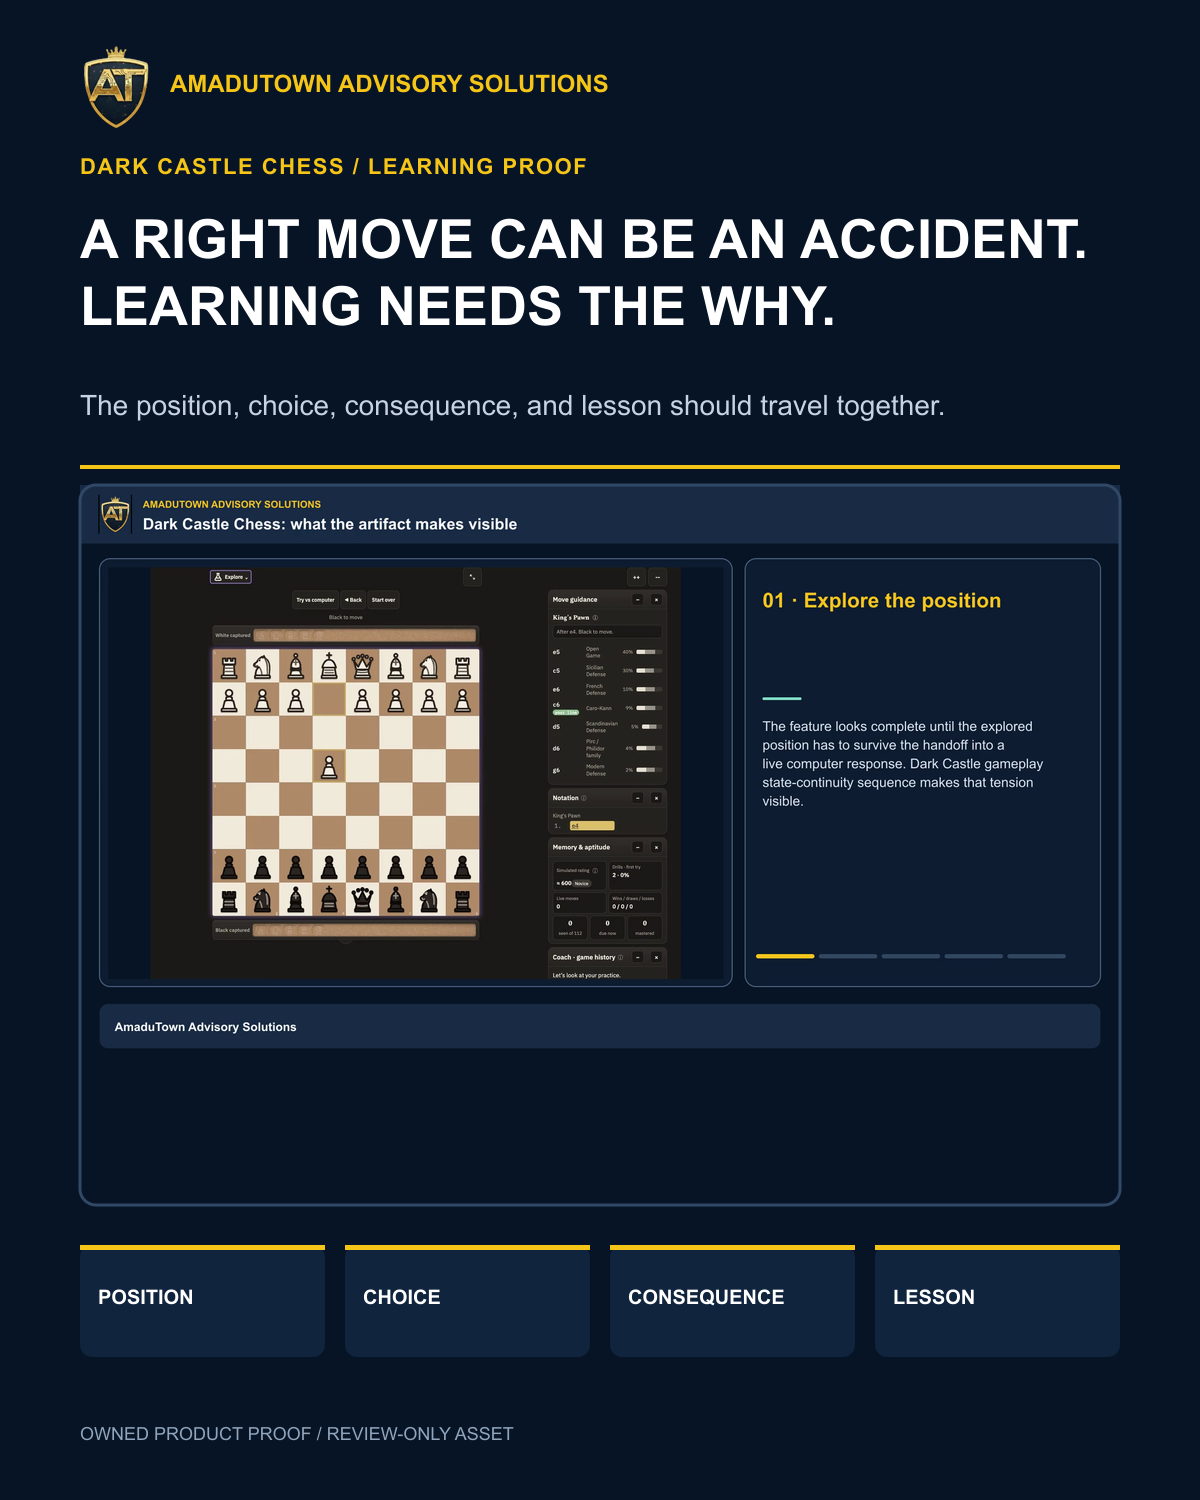
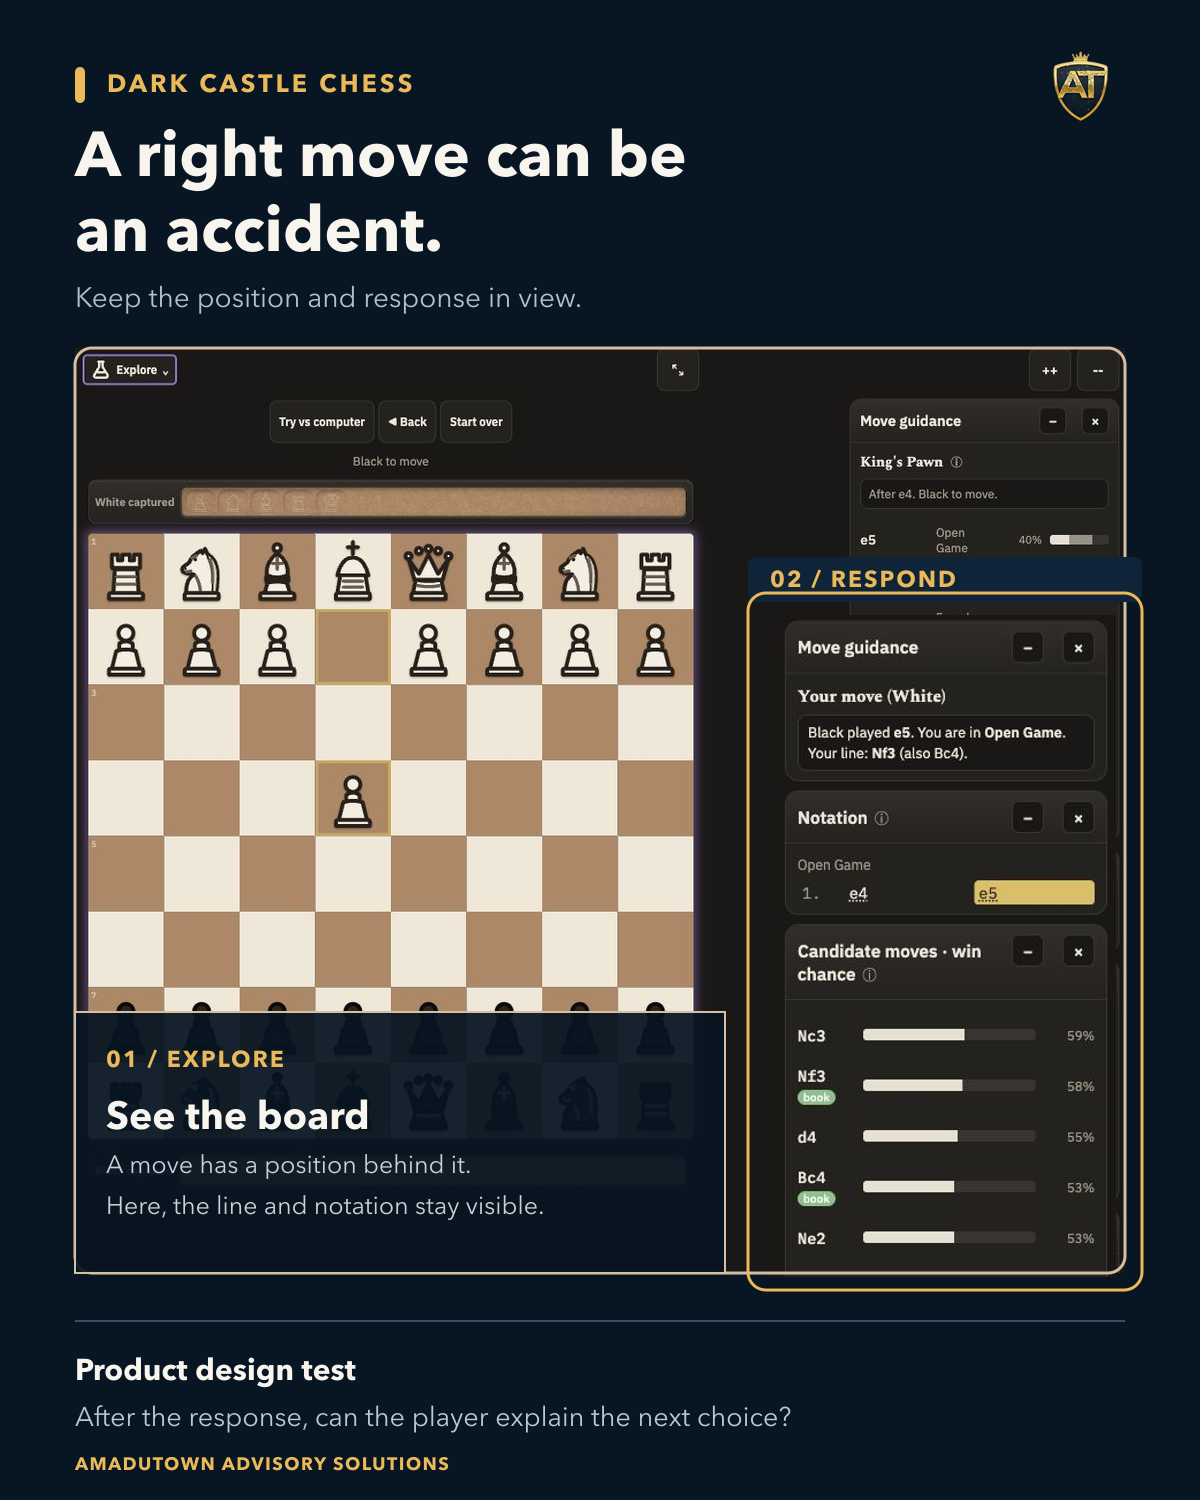
feat: prepare Dark Castle LinkedIn JIT review

diff --git a/lib/social-campaign-review-assets.ts b/lib/social-campaign-review-assets.ts
@@ -31,6 +31,9 @@ export type LinkedInReviewPacket = {
   calendarItemId: string
   campaign: string
   practicalValue: string
+  reviewCaption?: string
+  reviewCta?: string
+  reviewHashtags?: string[]
   visual: {
     publicPath: string
     alt: string
@@ -39,6 +42,13 @@ export type LinkedInReviewPacket = {
     sha256: string
   }
   sources: ReviewSource[]
+  jit?: {
+    contentVersion: string
+    observedAt: string
+    expiresAt: string
+    targetAt: string
+    status: 'blocked_stale_jit'
+  }
   externalGates: 'closed'
 }
 
@@ -328,18 +338,35 @@ export const SOCIAL_CAMPAIGN_REVIEW_PACKETS: Record<string, SocialCampaignReview
   [SOCIAL_CAMPAIGN_REVIEW_IDS.darkCastleLinkedIn]: {
     kind: 'linkedin_visual', channel: 'linkedin', socialContentId: SOCIAL_CAMPAIGN_REVIEW_IDS.darkCastleLinkedIn,
     calendarItemId: '433f1ee0-6764-4b95-8745-8418e6498446', campaign: 'Dark Castle Chess: Remember the Decision',
-    practicalValue: 'Shows why a learning product must preserve the position, choice, consequence, and lesson instead of recording completion alone.',
+    practicalValue: 'Shows a concrete product-design check: can the player inspect the position and response, then explain the next choice?',
+    reviewCaption: `A player opens with e4. The board remembers the move. What will help that player make the next decision?
+
+In Dark Castle Chess, Explore keeps the position, move guidance, and notation together. After the computer responds, the player can inspect candidate moves alongside the board. Those are visible product states, not a measured result.
+
+I think learning products should let people revisit the context of a choice. A completion marker tells us where someone stopped. A useful feedback loop helps the player see what changed and ask why. The next test is whether they can explain their next decision, without assuming that a correct move proves understanding.
+
+The practical check is simple: show the position, show the response, and invite the learner to say what they would try next. Then test that explanation with actual learners.`,
+    reviewCta: 'What does your product give people after they get an answer right?',
+    reviewHashtags: ['ProductDesign', 'LearningDesign', 'DarkCastleChess'],
     visual: {
       publicPath: '/review-assets/social-content/campaign-review/dark-castle-linkedin-remember-why.png',
-      alt: 'Dark Castle Chess LinkedIn visual showing a real gameplay board and the position, choice, consequence, lesson learning path.',
-      headline: 'A move can be right by accident. Learning needs the why.',
-      proofLine: 'Position -> choice -> consequence -> retained lesson',
-      sha256: 'sha256:f31f4dd07484c769c7dfd3b43c95269540facd387ca82a02fea2a15ff19c8334',
+      alt: 'Dark Castle Chess LinkedIn visual with approved gameplay captures showing an explored board, computer response, notation, and move guidance.',
+      headline: 'A right move can be an accident.',
+      proofLine: 'Explore the position; inspect the response; explain the next choice.',
+      sha256: 'sha256:8744666b8e38d71862088b08baebc63c39eafc4b50cacfa56944c29d30a09683',
     },
     sources: [
-      { label: 'Dark Castle gameplay proof', href: '/review-assets/social-content/dark-castle-customer-facing-poster.png', receipt: 'sha256:e15d744685990933555575d6a3c7bc18100af901a766c9a81d4ab9b1cc827d78', supports: 'Owned gameplay board, decision guidance, and coaching state.', limitation: 'Product-state proof only; it does not claim learning outcomes.' },
+      { label: 'Explore position capture', href: '/review-assets/social-content/storyboard-review/explore-position.jpg', receipt: 'sha256:896dce9162e815c1138dfbecacd24e0a63d05e99901f98b89022ddeee225f9df', supports: 'The owned board, open line, move guidance, and notation.', limitation: 'Shows a product state; no learner outcome is measured.' },
+      { label: 'Computer response capture', href: '/review-assets/social-content/storyboard-review/explore-computer.jpg', receipt: 'sha256:27d79426c04fa984569dc337623d1eb4a514392bf2e067563d9982d43d77dcdf', supports: 'The owned response, notation, and candidate-move guidance.', limitation: 'Candidate scores are in-product estimates, not measured learning gains.' },
       { label: 'Calendar review receipt', href: '#social-asset-packet-gate', receipt: '433f1ee0-6764-4b95-8745-8418e6498446', supports: 'Review-only campaign binding and closed side-effect gates.', limitation: externalGateNote },
     ],
+    jit: {
+      contentVersion: 'sha256:585addaef15349ec135a57dd67308492110f6e97aecac2585e5936737d21918b',
+      observedAt: '2026-10-17T15:08:19Z',
+      expiresAt: '2026-10-20T15:08:19Z',
+      targetAt: '2026-10-22T11:30:20-04:00',
+      status: 'blocked_stale_jit',
+    },
     externalGates: 'closed',
   },
   [SOCIAL_CAMPAIGN_REVIEW_IDS.auditLinkedIn]: {
@@ -458,7 +485,7 @@ export function socialCampaignReviewQaFixture(id: string): SocialContentItem {
   const isYouTube = packet.kind === 'youtube_packaging'
   const postText = isYouTube
     ? [packet.openingHook, ...packet.storyboard.map(({ beat }) => beat), packet.conclusion, packet.spokenCta].join('\n\n')
-    : [packet.visual.headline, packet.practicalValue, packet.visual.proofLine].join('\n\n')
+    : packet.reviewCaption ?? [packet.visual.headline, packet.practicalValue, packet.visual.proofLine].join('\n\n')
 
   return {
     id,
@@ -466,9 +493,9 @@ export function socialCampaignReviewQaFixture(id: string): SocialContentItem {
     platform: packet.channel,
     status: 'draft',
     post_text: postText,
-    cta_text: isYouTube ? packet.spokenCta : 'Review the decision system behind the result.',
+    cta_text: isYouTube ? packet.spokenCta : packet.reviewCta ?? 'Review the decision system behind the result.',
     cta_url: null,
-    hashtags: [],
+    hashtags: isYouTube ? [] : packet.reviewHashtags ?? [],
     image_url: packet.kind === 'linkedin_visual' ? packet.visual.publicPath : packet.thumbnailPath ?? null,
     image_prompt: isYouTube ? packet.thumbnailConcept : packet.visual.alt,
     framework_visual_type: null,

diff --git a/lib/social-campaign-review-assets.test.ts b/lib/social-campaign-review-assets.test.ts
@@ -11,12 +11,29 @@ describe('social campaign review asset projection', () => {
     expect(generator).not.toContain('youtubeOverlaySvg')
     const expected = new Map([
[4 lines of base64/hex data omitted]
     ])
     for (const [name, digest] of expected) {
       expect(createHash('sha256').update(readFileSync(`public/review-assets/social-content/campaign-review/${name}`)).digest('hex')).toBe(digest)
     }
+  })
+
+  it('keeps the Dark Castle JIT decision blocked on the expired exact content version', () => {
+    const packet = getSocialCampaignReviewPacket(SOCIAL_CAMPAIGN_REVIEW_IDS.darkCastleLinkedIn)
+    expect(packet?.kind).toBe('linkedin_visual')
+    if (!packet || packet.kind !== 'linkedin_visual') return
+    expect(packet.jit).toMatchObject({
+      contentVersion: 'sha256:585addaef15349ec135a57dd67308492110f6e97aecac2585e5936737d21918b',
+      expiresAt: '2026-10-20T15:08:19Z',
+      status: 'blocked_stale_jit',
+    })
+    expect(packet.sources.map((source) => source.receipt)).toContain('sha256:896dce9162e815c1138dfbecacd24e0a63d05e99901f98b89022ddeee225f9df')
+    const fixture = socialCampaignReviewQaFixture(SOCIAL_CAMPAIGN_REVIEW_IDS.darkCastleLinkedIn)
+    expect(fixture.post_text).toContain('A player opens with e4.')
+    expect(fixture.post_text).toContain('Those are visible product states, not a measured result.')
+    expect(fixture.cta_text).toBe('What does your product give people after they get an answer right?')
+    expect(packet.externalGates).toBe('closed')
   })
 
   it('renders YouTube thumbnails only from version-bound upstream decision receipts', () => {

diff --git a/components/admin/SocialCampaignReviewPacket.tsx b/components/admin/SocialCampaignReviewPacket.tsx
@@ -37,6 +37,13 @@ export default function SocialCampaignReviewPacket({ packet }: { packet: SocialC
         </div>
         <Image src={packet.visual.publicPath} alt={packet.visual.alt} width={1200} height={1500} className="mt-4 aspect-[4/5] w-full rounded-lg border border-border bg-[#071426] object-contain" priority />
         <p className="mt-3 rounded-lg border border-border bg-muted/35 p-3 text-sm font-semibold text-foreground">{packet.visual.proofLine}</p>
+        {packet.jit?.status === 'blocked_stale_jit' ? (
+          <div role="status" className="mt-3 rounded-lg border border-amber-500/40 bg-amber-500/10 p-3 text-sm leading-6 text-foreground">
+            <p className="font-semibold">JIT refresh required before a current content decision</p>
+            <p>The approved source receipt expired on October 20, 2026. The October 22, 11:30 AM ET target remains review only until source lineage is refreshed and the proposed visual and copy are bound to a new decision.</p>
+            <p className="mt-1 break-all font-mono text-[11px] text-muted-foreground">Persisted draft version: {packet.jit.contentVersion}</p>
+          </div>
+        ) : null}
         <details className="mt-3 rounded-lg border border-border bg-background p-3">
           <summary className="cursor-pointer text-sm font-semibold text-foreground">Trace every visible claim</summary>
           <div className="mt-3"><ReceiptList sources={packet.sources} /></div>

diff --git a/components/admin/SocialCampaignReviewPacket.test.tsx b/components/admin/SocialCampaignReviewPacket.test.tsx
@@ -8,8 +8,10 @@ describe('SocialCampaignReviewPacket', () => {
     const packet = getSocialCampaignReviewPacket(SOCIAL_CAMPAIGN_REVIEW_IDS.darkCastleLinkedIn)!
     render(<SocialCampaignReviewPacket packet={packet} />)
 
-    expect(screen.getByRole('img', { name: /real gameplay board/i })).toHaveAttribute('src', expect.stringContaining('dark-castle-linkedin-remember-why.png'))
-    expect(screen.getByText('Position -> choice -> consequence -> retained lesson')).toBeVisible()
+    expect(screen.getByRole('img', { name: /approved gameplay captures/i })).toHaveAttribute('src', expect.stringContaining('dark-castle-linkedin-remember-why.png'))
+    expect(screen.getByText('Explore the position; inspect the response; explain the next choice.')).toBeVisible()
+    expect(screen.getByRole('status')).toHaveTextContent('JIT refresh required before a current content decision')
+    expect(screen.getByRole('status')).toHaveTextContent('sha256:585addaef15349ec135a57dd67308492110f6e97aecac2585e5936737d21918b')
     expect(screen.getByText(/Provider, upload, platform-draft, scheduling, publishing/)).toBeVisible()
   })
 

diff --git a/docs/social-content/dark-castle-linkedin-jit-review-2026-10-22.md b/docs/social-content/dark-castle-linkedin-jit-review-2026-10-22.md
@@ -1,0 +1,64 @@
+# Dark Castle Chess LinkedIn JIT review packet
+
+**Target:** October 22, 2026, 11:30 AM ET. **Decision state:** blocked pending a current JIT receipt and Human QA of this visual/copy version. This is an internal, provider-free packet. The calendar item remains review only and the Social Content row remains a draft.
+
+## Exact binding
+
+| Item | Binding |
+| --- | --- |
+| Calendar item | `433f1ee0-6764-4b95-8745-8418e6498446` |
+| Social Content record | `9817a689-0565-48ed-8c97-c2db40c1ec45` |
+| Persisted content version | `sha256:585addaef15349ec135a57dd67308492110f6e97aecac2585e5936737d21918b` |
+| Prior JIT observation | October 17, 2026, 11:08:19 AM ET; score 96 |
+| Prior JIT expiry | October 20, 2026, 11:08:19 AM ET |
+| Visual version | `sha256:8744666b8e38d71862088b08baebc63c39eafc4b50cacfa56944c29d30a09683` |
+| Review route | `/admin/social-content/9817a689-0565-48ed-8c97-c2db40c1ec45?qa_fixture=social_campaign_review_assets_v1` |
+
+The live read on October 21 showed `status=draft`, `image_url=null`, `authorization_status=pending`, and `publishing_authorized=false`. The calendar target was recalibrated to October 22 at 11:30:20 AM ET. The prior `human_qa_status=approved` is historical; it does not approve this new visual or refresh the expired JIT receipt.
+
+## Customer-facing candidate
+
+**Visual:** [Dark Castle LinkedIn review image](/review-assets/social-content/campaign-review/dark-castle-linkedin-remember-why.png). It shows the actual Explore board and the actual computer-response panel. It asks a useful product-design question without presenting in-product estimates as measured learning results.
+
+**Proposed caption, review only:**
+
+> A player opens with e4. The board remembers the move. What will help that player make the next decision?
+>
+> In Dark Castle Chess, Explore keeps the position, move guidance, and notation together. After the computer responds, the player can inspect candidate moves alongside the board. Those are visible product states, not a measured result.
+>
+> I think learning products should let people revisit the context of a choice. A completion marker tells us where someone stopped. A useful feedback loop helps the player see what changed and ask why. The next test is whether they can explain their next decision, without assuming that a correct move proves understanding.
+>
+> The practical check is simple: show the position, show the response, and invite the learner to say what they would try next. Then test that explanation with actual learners.
+>
+> What does your product give people after they get an answer right?
+>
+> #ProductDesign #LearningDesign #DarkCastleChess
+
+The persisted draft has different text. This caption is a **new review candidate**, not a production update. Before any decision, compare the proposed caption with the current row, select one exact version, and recalculate its content-version receipt. The visual and caption must be approved together.
+
+## Claim and asset lineage
+
+| Visible statement or detail | Exact approved proof | Boundary |
+| --- | --- | --- |
[3 lines of base64/hex data omitted]
+| Rights, privacy, and approved-use scope | `artifacts/human-qa/artifact-video-review-2026-10-14/source-map.md` and `inputs/dark_castle_chess.json`; receipts `source:dark-castle-chess:approved-composite-20261014`, `privacy:dark-castle-chess:public-safe-20261014`, `rights:dark-castle-chess:owned-public-assets-20261014` | Use public gameplay captures; do not infer measured outcomes or native-store release. |
+| Prior JIT source lineage | Approved record lists YouTube `K9vKzNJAp3U`, Springer DOI `10.1007/s10758-026-10032-5`, and FIDE `CM1-202605.pdf` | The receipt expired October 20. No claim from these sources is added to the visual or caption until the same lineage is refreshed and approved. |
+
+The Portfolio repository and configured AmaduTown Google Drive were searched. The Drive project folder contains the Dark Castle release APK; Drive search also found project exports, but no additional image with a clearer approved-use receipt for this LinkedIn item. The repository's three public gameplay captures are the qualified image sources.
+
+## Challenger pass
+
+- **Voice:** The caption starts with the visible e4 moment, uses plain product language, and ends with a practical design question. The final copy removes the persisted draft's unverified first-person rebuilding claim and unsupported statement that a retained lesson is already proven.
+- **Framework:** The visual uses a board and response detail as the argument. The question asks whether the player can explain the next choice; it is a design test, not a claim of measured improvement.
+- **Originality:** No public thumbnail pixels, creator likeness, stock illustration, mechanical arrows, or repeated four-box campaign template were used. The visual is made from owned gameplay captures and AmaduTown brand assets.
+- **Privacy and release:** No private chats, accounts, player identifiers, internal fixture text, receipts, or system notes appear on the public image. No native-store availability or measured learner result is claimed.
+- **Staleness:** The visual can be reviewed, but the JIT decision remains blocked. A new approved observation must bind to the chosen content version and be current at the October 22 target.
+
+## Required decision sequence
+
+1. Review the image and proposed caption together on the exact Social Content route at desktop and mobile widths. Approve or request changes to this candidate only.
+2. Re-run the approved JIT source check against the three existing lineage URLs and current product boundary. Record observation time, expiry, source receipts, and any changed claim or source status. If any source is missing, stale, ambiguous, or unapproved, keep the item blocked.
+3. Choose the final caption, recompute the content-version receipt, and verify that the visual SHA-256 and caption version match the review decision. A changed caption, visual, or source set requires a new decision.
+4. Keep provider call, upload, platform draft, scheduling, publishing, external send, credential change, and production write gates closed. Any later external action needs its own authority and current receipt.
